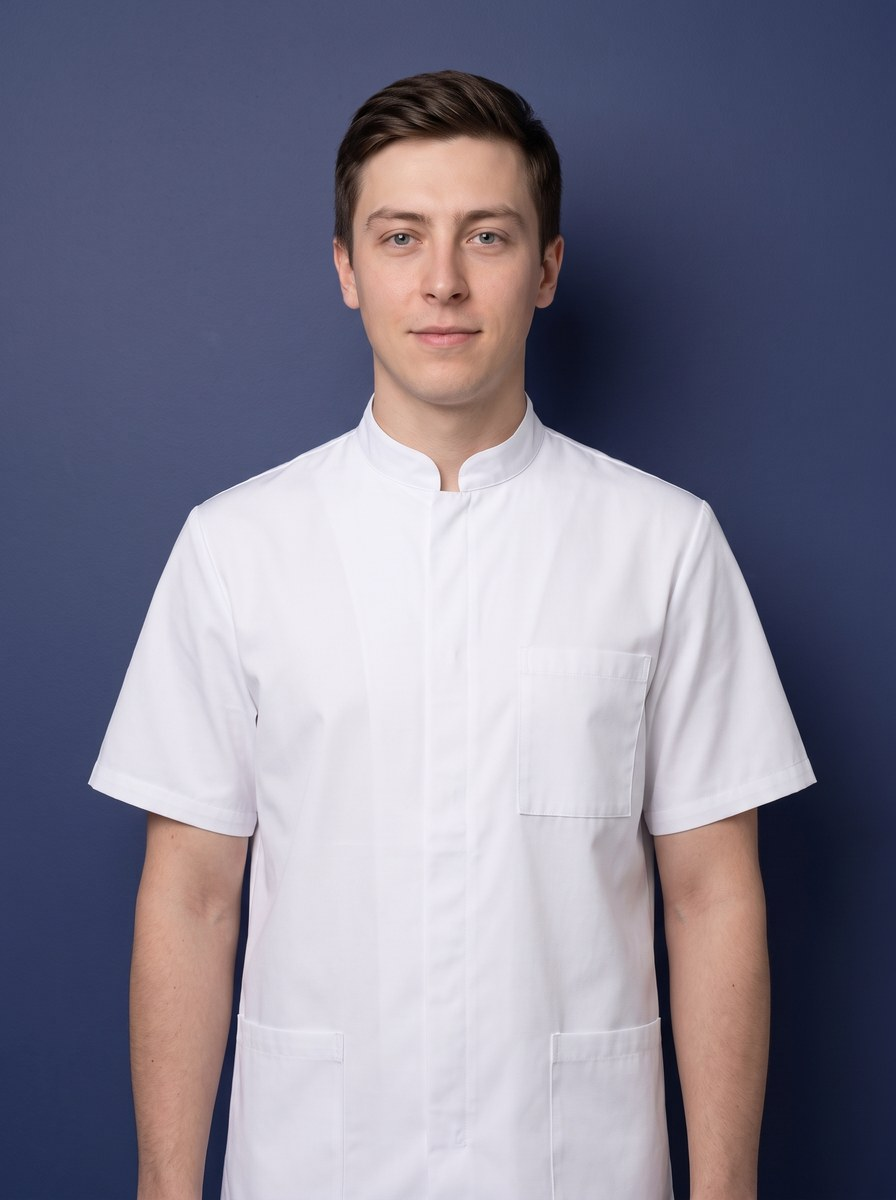
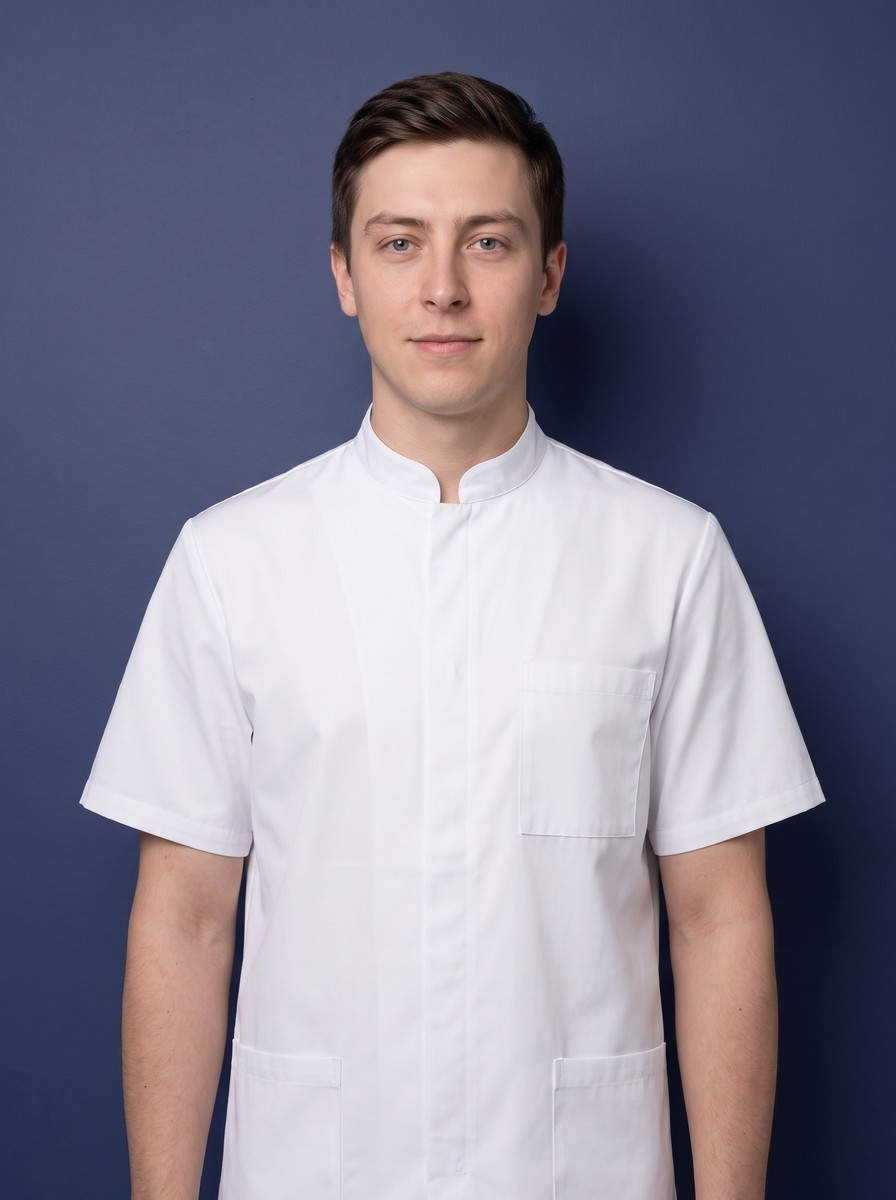
Портреты выровнены по единому кадру, уточнены специализации
Лица теперь одинаково близко: у всех семерых линия глаз на 20% высоты
кадра, лицо занимает одну и ту же долю ширины, центр по вертикальной оси
— эталоном взят кадр Старикова. Кроп считался от замеров лица на каждом
снимке, а не подгонкой на глаз.

Портрет Анны был снят заметно крупнее остальных, и обрезкой его было не
отдалить — кадр пришлось сначала расширить (outpaint дорисовал фон и
фигуру), и только потом кадрировать вместе со всеми.

Стариков и Лев — стоматологи-хирурги, а не терапевты. Полина —
гигиенист, не стоматолог, поэтому её страница, как у ассистентов и
администратора, отдаёт Person вместо Physician и не зовёт «к врачу».

diff --git a/site/konsultatsiya.html b/site/konsultatsiya.html
@@ -32,7 +32,7 @@ try {
 <link rel="preconnect" href="https://fonts.googleapis.com">
 <link rel="preconnect" href="https://fonts.gstatic.com" crossorigin>
 <link href="https://fonts.googleapis.com/css2?family=Unbounded:wght@500;700;900&family=Manrope:wght@400;500;700;800&display=swap" rel="stylesheet">
-<link rel="stylesheet" href="styles.css?v=20260826a">
+<link rel="stylesheet" href="styles.css?v=20260826b">
 <script type="application/ld+json">{"@context": "https://schema.org", "@type": "Service", "name": "Приём и консультация стоматолога", "serviceType": "Приём и консультация стоматолога", "provider": {"@type": "Dentist", "name": "Честная стоматология", "address": {"@type": "PostalAddress", "streetAddress": "ул. Танкистов, 68", "addressLocality": "Пермь", "postalCode": "614095", "addressCountry": "RU"}, "telephone": "+79991152419"}, "areaServed": "Пермь", "offers": {"@type": "Offer", "price": "600", "priceCurrency": "RUB"}}</script>
 <script type="application/ld+json">{"@context": "https://schema.org", "@type": "FAQPage", "mainEntity": [{"@type": "Question", "name": "Нужно ли готовиться к консультации?", "acceptedAnswer": {"@type": "Answer", "text": "Нет, особой подготовки не требуется. Если есть снимки из других клиник — возьмите их с собой."}}, {"@type": "Question", "name": "Обязательно ли лечиться после консультации именно у вас?", "acceptedAnswer": {"@type": "Answer", "text": "Нет. План лечения и смета остаются у вас — решение вы принимаете без давления."}}, {"@type": "Question", "name": "Сколько действует смета?", "acceptedAnswer": {"@type": "Answer", "text": "Смета фиксируется в договоре до начала лечения и не меняется в процессе."}}]}</script>
 </head>
@@ -172,11 +172,11 @@ try {
 </div>
 
 <script>window.SERVICE_ID = "konsultatsiya";</script>
-<script src="db.js?v=20260826a"></script>
-<script src="md.js?v=20260826a"></script>
-<script src="services-data.js?v=20260826a"></script>
-<script src="ux.js?v=20260826a"></script>
-<script src="service.js?v=20260826a"></script>
-<script src="a11y.js?v=20260826a"></script>
+<script src="db.js?v=20260826b"></script>
+<script src="md.js?v=20260826b"></script>
+<script src="services-data.js?v=20260826b"></script>
+<script src="ux.js?v=20260826b"></script>
+<script src="service.js?v=20260826b"></script>
+<script src="a11y.js?v=20260826b"></script>
 </body>
 </html>

diff --git a/site/profgigiena.html b/site/profgigiena.html
@@ -32,7 +32,7 @@ try {
 <link rel="preconnect" href="https://fonts.googleapis.com">
 <link rel="preconnect" href="https://fonts.gstatic.com" crossorigin>
 <link href="https://fonts.googleapis.com/css2?family=Unbounded:wght@500;700;900&family=Manrope:wght@400;500;700;800&display=swap" rel="stylesheet">
-<link rel="stylesheet" href="styles.css?v=20260826a">
+<link rel="stylesheet" href="styles.css?v=20260826b">
 <script type="application/ld+json">{"@context": "https://schema.org", "@type": "Service", "name": "Профессиональная гигиена полости рта", "serviceType": "Профессиональная гигиена полости рта", "provider": {"@type": "Dentist", "name": "Честная стоматология", "address": {"@type": "PostalAddress", "streetAddress": "ул. Танкистов, 68", "addressLocality": "Пермь", "postalCode": "614095", "addressCountry": "RU"}, "telephone": "+79991152419"}, "areaServed": "Пермь", "offers": {"@type": "Offer", "price": "4900", "priceCurrency": "RUB"}}</script>
 <script type="application/ld+json">{"@context": "https://schema.org", "@type": "FAQPage", "mainEntity": [{"@type": "Question", "name": "Как часто нужно делать профгигиену?", "acceptedAnswer": {"@type": "Answer", "text": "Раз в полгода — регулярная гигиена в разы снижает риск кариеса."}}, {"@type": "Question", "name": "Есть ли акция?", "acceptedAnswer": {"@type": "Answer", "text": "Да, до 31.08.2026 чистка 1+1 для двоих — всего 6 990 ₽."}}, {"@type": "Question", "name": "Отбеливает ли чистка зубы?", "acceptedAnswer": {"@type": "Answer", "text": "Air-Flow возвращает естественный цвет эмали, убирая налёт от кофе, чая и курения."}}]}</script>
 </head>
@@ -172,11 +172,11 @@ try {
 </div>
 
 <script>window.SERVICE_ID = "profgigiena";</script>
-<script src="db.js?v=20260826a"></script>
-<script src="md.js?v=20260826a"></script>
-<script src="services-data.js?v=20260826a"></script>
-<script src="ux.js?v=20260826a"></script>
-<script src="service.js?v=20260826a"></script>
-<script src="a11y.js?v=20260826a"></script>
+<script src="db.js?v=20260826b"></script>
+<script src="md.js?v=20260826b"></script>
+<script src="services-data.js?v=20260826b"></script>
+<script src="ux.js?v=20260826b"></script>
+<script src="service.js?v=20260826b"></script>
+<script src="a11y.js?v=20260826b"></script>
 </body>
 </html>

diff --git a/site/protezirovanie.html b/site/protezirovanie.html
@@ -32,7 +32,7 @@ try {
 <link rel="preconnect" href="https://fonts.googleapis.com">
 <link rel="preconnect" href="https://fonts.gstatic.com" crossorigin>
 <link href="https://fonts.googleapis.com/css2?family=Unbounded:wght@500;700;900&family=Manrope:wght@400;500;700;800&display=swap" rel="stylesheet">
-<link rel="stylesheet" href="styles.css?v=20260826a">
+<link rel="stylesheet" href="styles.css?v=20260826b">
 <script type="application/ld+json">{"@context": "https://schema.org", "@type": "Service", "name": "Протезирование зубов", "serviceType": "Протезирование зубов", "provider": {"@type": "Dentist", "name": "Честная стоматология", "address": {"@type": "PostalAddress", "streetAddress": "ул. Танкистов, 68", "addressLocality": "Пермь", "postalCode": "614095", "addressCountry": "RU"}, "telephone": "+79991152419"}, "areaServed": "Пермь", "offers": {"@type": "Offer", "price": "10440", "priceCurrency": "RUB"}}</script>
 <script type="application/ld+json">{"@context": "https://schema.org", "@type": "FAQPage", "mainEntity": [{"@type": "Question", "name": "Что значит «под ключ»?", "acceptedAnswer": {"@type": "Answer", "text": "В цену включены все этапы: подготовка, слепки, изготовление, примерка и фиксация."}}, {"@type": "Question", "name": "Какая коронка лучше?", "acceptedAnswer": {"@type": "Answer", "text": "Цельнолитая — бюджетный вариант для жевательных зубов, циркониевая — эстетичнее, по акции 24 500 ₽."}}, {"@type": "Question", "name": "Больно ли ставить коронку?", "acceptedAnswer": {"@type": "Answer", "text": "Все этапы проходят с анестезией."}}]}</script>
 </head>
@@ -172,11 +172,11 @@ try {
 </div>
 
 <script>window.SERVICE_ID = "protezirovanie";</script>
-<script src="db.js?v=20260826a"></script>
-<script src="md.js?v=20260826a"></script>
-<script src="services-data.js?v=20260826a"></script>
-<script src="ux.js?v=20260826a"></script>
-<script src="service.js?v=20260826a"></script>
-<script src="a11y.js?v=20260826a"></script>
+<script src="db.js?v=20260826b"></script>
+<script src="md.js?v=20260826b"></script>
+<script src="services-data.js?v=20260826b"></script>
+<script src="ux.js?v=20260826b"></script>
+<script src="service.js?v=20260826b"></script>
+<script src="a11y.js?v=20260826b"></script>
 </body>
 </html>

diff --git a/site/lechenie-kariesa.html b/site/lechenie-kariesa.html
@@ -32,7 +32,7 @@ try {
 <link rel="preconnect" href="https://fonts.googleapis.com">
 <link rel="preconnect" href="https://fonts.gstatic.com" crossorigin>
 <link href="https://fonts.googleapis.com/css2?family=Unbounded:wght@500;700;900&family=Manrope:wght@400;500;700;800&display=swap" rel="stylesheet">
-<link rel="stylesheet" href="styles.css?v=20260826a">
+<link rel="stylesheet" href="styles.css?v=20260826b">
 <script type="application/ld+json">{"@context": "https://schema.org", "@type": "Service", "name": "Лечение кариеса", "serviceType": "Лечение кариеса", "provider": {"@type": "Dentist", "name": "Честная стоматология", "address": {"@type": "PostalAddress", "streetAddress": "ул. Танкистов, 68", "addressLocality": "Пермь", "postalCode": "614095", "addressCountry": "RU"}, "telephone": "+79991152419"}, "areaServed": "Пермь", "offers": {"@type": "Offer", "price": "4000", "priceCurrency": "RUB"}}</script>
 <script type="application/ld+json">{"@context": "https://schema.org", "@type": "FAQPage", "mainEntity": [{"@type": "Question", "name": "Больно ли лечить кариес?", "acceptedAnswer": {"@type": "Answer", "text": "Нет, используем современную анестезию — пациенты не чувствуют даже укол."}}, {"@type": "Question", "name": "Действует ли скидка?", "acceptedAnswer": {"@type": "Answer", "text": "Да, до 31.08.2026 — скидка 15% на лечение кариеса при прохождении профгигиены."}}, {"@type": "Question", "name": "Что будет, если кариес не лечить?", "acceptedAnswer": {"@type": "Answer", "text": "Кариес перейдёт в пульпит — лечение будет дольше и дороже."}}]}</script>
 </head>
@@ -172,11 +172,11 @@ try {
 </div>
 
 <script>window.SERVICE_ID = "lechenie-kariesa";</script>
-<script src="db.js?v=20260826a"></script>
-<script src="md.js?v=20260826a"></script>
-<script src="services-data.js?v=20260826a"></script>
-<script src="ux.js?v=20260826a"></script>
-<script src="service.js?v=20260826a"></script>
-<script src="a11y.js?v=20260826a"></script>
+<script src="db.js?v=20260826b"></script>
+<script src="md.js?v=20260826b"></script>
+<script src="services-data.js?v=20260826b"></script>
+<script src="ux.js?v=20260826b"></script>
+<script src="service.js?v=20260826b"></script>
+<script src="a11y.js?v=20260826b"></script>
 </body>
 </html>

diff --git a/site/restavratsiya.html b/site/restavratsiya.html
@@ -32,7 +32,7 @@ try {
 <link rel="preconnect" href="https://fonts.googleapis.com">
 <link rel="preconnect" href="https://fonts.gstatic.com" crossorigin>
 <link href="https://fonts.googleapis.com/css2?family=Unbounded:wght@500;700;900&family=Manrope:wght@400;500;700;800&display=swap" rel="stylesheet">
-<link rel="stylesheet" href="styles.css?v=20260826a">
+<link rel="stylesheet" href="styles.css?v=20260826b">
 <script type="application/ld+json">{"@context": "https://schema.org", "@type": "Service", "name": "Эстетическая реставрация зубов", "serviceType": "Эстетическая реставрация зубов", "provider": {"@type": "Dentist", "name": "Честная стоматология", "address": {"@type": "PostalAddress", "streetAddress": "ул. Танкистов, 68", "addressLocality": "Пермь", "postalCode": "614095", "addressCountry": "RU"}, "telephone": "+79991152419"}, "areaServed": "Пермь", "offers": {"@type": "Offer", "price": "3500", "priceCurrency": "RUB"}}</script>
 <script type="application/ld+json">{"@context": "https://schema.org", "@type": "FAQPage", "mainEntity": [{"@type": "Question", "name": "Чем реставрация отличается от коронки?", "acceptedAnswer": {"@type": "Answer", "text": "Реставрация делается композитом за один визит и не требует обточки зуба."}}, {"@type": "Question", "name": "Сколько держится реставрация?", "acceptedAnswer": {"@type": "Answer", "text": "При правильном уходе — 5–10 лет."}}, {"@type": "Question", "name": "Можно ли закрыть щель между передними зубами?", "acceptedAnswer": {"@type": "Answer", "text": "Да, это решается за один визит."}}]}</script>
 </head>
@@ -172,11 +172,11 @@ try {
 </div>
 
 <script>window.SERVICE_ID = "restavratsiya";</script>
-<script src="db.js?v=20260826a"></script>
-<script src="md.js?v=20260826a"></script>
-<script src="services-data.js?v=20260826a"></script>
-<script src="ux.js?v=20260826a"></script>
-<script src="service.js?v=20260826a"></script>
-<script src="a11y.js?v=20260826a"></script>
+<script src="db.js?v=20260826b"></script>
+<script src="md.js?v=20260826b"></script>
+<script src="services-data.js?v=20260826b"></script>
+<script src="ux.js?v=20260826b"></script>
+<script src="service.js?v=20260826b"></script>
+<script src="a11y.js?v=20260826b"></script>
 </body>
 </html>

diff --git a/site/udalenie-zubov.html b/site/udalenie-zubov.html
@@ -32,7 +32,7 @@ try {
 <link rel="preconnect" href="https://fonts.googleapis.com">
 <link rel="preconnect" href="https://fonts.gstatic.com" crossorigin>
 <link href="https://fonts.googleapis.com/css2?family=Unbounded:wght@500;700;900&family=Manrope:wght@400;500;700;800&display=swap" rel="stylesheet">
-<link rel="stylesheet" href="styles.css?v=20260826a">
+<link rel="stylesheet" href="styles.css?v=20260826b">
 <script type="application/ld+json">{"@context": "https://schema.org", "@type": "Service", "name": "Удаление зубов", "serviceType": "Удаление зубов", "provider": {"@type": "Dentist", "name": "Честная стоматология", "address": {"@type": "PostalAddress", "streetAddress": "ул. Танкистов, 68", "addressLocality": "Пермь", "postalCode": "614095", "addressCountry": "RU"}, "telephone": "+79991152419"}, "areaServed": "Пермь", "offers": {"@type": "Offer", "price": "2500", "priceCurrency": "RUB"}}</script>
 <script type="application/ld+json">{"@context": "https://schema.org", "@type": "FAQPage", "mainEntity": [{"@type": "Question", "name": "Вы сразу предложите удалить зуб?", "acceptedAnswer": {"@type": "Answer", "text": "Нет, наш принцип — сохранять зубы, которые можно вылечить."}}, {"@type": "Question", "name": "Принимаете ли вы с острой болью?", "acceptedAnswer": {"@type": "Answer", "text": "Да, есть неотложка для взрослых — постараемся принять в день обращения."}}, {"@type": "Question", "name": "Что делать после удаления?", "acceptedAnswer": {"@type": "Answer", "text": "Врач даст подробные рекомендации; при вопросах — звоните."}}]}</script>
 </head>
@@ -172,11 +172,11 @@ try {
 </div>
 
 <script>window.SERVICE_ID = "udalenie-zubov";</script>
-<script src="db.js?v=20260826a"></script>
-<script src="md.js?v=20260826a"></script>
-<script src="services-data.js?v=20260826a"></script>
-<script src="ux.js?v=20260826a"></script>
-<script src="service.js?v=20260826a"></script>
-<script src="a11y.js?v=20260826a"></script>
+<script src="db.js?v=20260826b"></script>
+<script src="md.js?v=20260826b"></script>
+<script src="services-data.js?v=20260826b"></script>
+<script src="ux.js?v=20260826b"></script>
+<script src="service.js?v=20260826b"></script>
+<script src="a11y.js?v=20260826b"></script>
 </body>
 </html>

diff --git a/site/index.html b/site/index.html
@@ -80,10 +80,10 @@ try {
 <link rel="preconnect" href="https://fonts.googleapis.com">
 <link rel="preconnect" href="https://fonts.gstatic.com" crossorigin>
 <link href="https://fonts.googleapis.com/css2?family=Unbounded:wght@500;700;900&family=Manrope:wght@400;500;700;800&family=Cairo:wght@400;600;800&display=swap" rel="stylesheet">
-<link rel="stylesheet" href="styles.css?v=20260826a">
-<link rel="stylesheet" href="effects.css?v=20260826a">
-<link rel="stylesheet" href="cards-fx.css?v=20260826a">
-<link rel="stylesheet" href="polish.css?v=20260826a">
+<link rel="stylesheet" href="styles.css?v=20260826b">
+<link rel="stylesheet" href="effects.css?v=20260826b">
+<link rel="stylesheet" href="cards-fx.css?v=20260826b">
+<link rel="stylesheet" href="polish.css?v=20260826b">
 </head>
 <body data-theme="deep">
 <a class="skip-link" href="#care">Перейти к содержанию</a>
@@ -658,20 +658,20 @@ try {
   </div>
 </div>
 
-<script src="i18n.js?v=20260826a"></script>
-<script src="db.js?v=20260826a"></script>
-<script src="auth.js?v=20260826a"></script>
-<script src="md.js?v=20260826a"></script>
-<script src="ux.js?v=20260826a"></script>
-<script src="app.js?v=20260826a"></script>
-<script src="water.js?v=20260826a" defer></script>
-<script src="effects.js?v=20260826a" defer></script>
-<script src="teeth-map.js?v=20260826a" defer></script>
-<script src="hero-seq.js?v=20260826a" defer></script>
-<script src="tour.js?v=20260826a" defer></script>
-<script src="cards-fx.js?v=20260826a" defer></script>
-<script src="motion-fx.js?v=20260826a" defer></script>
-<script src="polish.js?v=20260826a" defer></script>
-<script src="a11y.js?v=20260826a"></script>
+<script src="i18n.js?v=20260826b"></script>
+<script src="db.js?v=20260826b"></script>
+<script src="auth.js?v=20260826b"></script>
+<script src="md.js?v=20260826b"></script>
+<script src="ux.js?v=20260826b"></script>
+<script src="app.js?v=20260826b"></script>
+<script src="water.js?v=20260826b" defer></script>
+<script src="effects.js?v=20260826b" defer></script>
+<script src="teeth-map.js?v=20260826b" defer></script>
+<script src="hero-seq.js?v=20260826b" defer></script>
+<script src="tour.js?v=20260826b" defer></script>
+<script src="cards-fx.js?v=20260826b" defer></script>
+<script src="motion-fx.js?v=20260826b" defer></script>
+<script src="polish.js?v=20260826b" defer></script>
+<script src="a11y.js?v=20260826b"></script>
 </body>
 </html>

diff --git a/site/db.js b/site/db.js
@@ -35,8 +35,8 @@ const ChestomDB = (() => {
         id: "starikov",
         name: "Стариков",
         fullName: "Стариков",
-        role: "Врач-стоматолог",
-        desc: "Терапевтическое лечение: кариес, пульпит, реставрация. Подробно объясняет план лечения до начала работы.",
+        role: "Врач стоматолог-хирург",
+        desc: "Хирургическое лечение: удаление зубов, в том числе сложное, и подготовка к протезированию. Подробно объясняет ход вмешательства до начала работы.",
         photo: "team/starikov.jpg",
         hue: 205
       },
@@ -44,8 +44,8 @@ const ChestomDB = (() => {
         id: "lev",
         name: "Лев",
         fullName: "Лев",
-        role: "Врач-стоматолог",
-        desc: "Лечение и реставрация зубов. Работает спокойно и без спешки — важно, если визит к стоматологу даётся тяжело.",
+        role: "Врач стоматолог-хирург",
+        desc: "Удаление зубов и хирургическая подготовка полости рта. Работает спокойно и без спешки — важно, если визит к стоматологу даётся тяжело.",
         photo: "team/lev.jpg",
         hue: 225
       },
@@ -53,7 +53,7 @@ const ChestomDB = (() => {
         id: "polina",
         name: "Полина",
         fullName: "Полина",
-        role: "Стоматолог-гигиенист",
+        role: "Гигиенист",
         desc: "Профессиональная гигиена, снятие налёта и зубного камня, подбор домашнего ухода. Покажет, как чистить зубы именно вам.",
         photo: "team/polina.jpg",
         hue: 170

diff --git a/site/admin.html b/site/admin.html
@@ -20,8 +20,8 @@ try { if (!localStorage.getItem("chestom_session")) location.replace("login.html
 <link rel="preconnect" href="https://fonts.googleapis.com">
 <link rel="preconnect" href="https://fonts.gstatic.com" crossorigin>
 <link href="https://fonts.googleapis.com/css2?family=Unbounded:wght@500;700&family=Manrope:wght@400;500;700;800&display=swap" rel="stylesheet">
-<link rel="stylesheet" href="styles.css?v=20260826a">
-<link rel="stylesheet" href="admin.css?v=20260826a">
+<link rel="stylesheet" href="styles.css?v=20260826b">
+<link rel="stylesheet" href="admin.css?v=20260826b">
 </head>
 <body class="adm-body">
 
@@ -302,10 +302,10 @@ try { if (!localStorage.getItem("chestom_session")) location.replace("login.html
   </div>
 </div>
 
-<script src="db.js?v=20260826a"></script>
-<script src="auth.js?v=20260826a"></script>
-<script src="md.js?v=20260826a"></script>
-<script src="admin.js?v=20260826a"></script>
-<script src="a11y.js?v=20260826a"></script>
+<script src="db.js?v=20260826b"></script>
+<script src="auth.js?v=20260826b"></script>
+<script src="md.js?v=20260826b"></script>
+<script src="admin.js?v=20260826b"></script>
+<script src="a11y.js?v=20260826b"></script>
 </body>
 </html>

diff --git a/site/_service_template.html b/site/_service_template.html
@@ -27,7 +27,7 @@ try {
 <link rel="preconnect" href="https://fonts.googleapis.com">
 <link rel="preconnect" href="https://fonts.gstatic.com" crossorigin>
 <link href="https://fonts.googleapis.com/css2?family=Unbounded:wght@500;700;900&family=Manrope:wght@400;500;700;800&display=swap" rel="stylesheet">
-<link rel="stylesheet" href="styles.css?v=20260826a">
+<link rel="stylesheet" href="styles.css?v=20260826b">
 <script type="application/ld+json">{{LD_SERVICE}}</script>
 <script type="application/ld+json">{{LD_FAQ}}</script>
 </head>
@@ -167,11 +167,11 @@ try {
 </div>
 
 <script>window.SERVICE_ID = "{{SLUG}}";</script>
-<script src="db.js?v=20260826a"></script>
-<script src="md.js?v=20260826a"></script>
-<script src="services-data.js?v=20260826a"></script>
-<script src="ux.js?v=20260826a"></script>
-<script src="service.js?v=20260826a"></script>
-<script src="a11y.js?v=20260826a"></script>
+<script src="db.js?v=20260826b"></script>
+<script src="md.js?v=20260826b"></script>
+<script src="services-data.js?v=20260826b"></script>
+<script src="ux.js?v=20260826b"></script>
+<script src="service.js?v=20260826b"></script>
+<script src="a11y.js?v=20260826b"></script>
 </body>
 </html>

diff --git a/site/404.html b/site/404.html
@@ -19,7 +19,7 @@ try {
 <link rel="preconnect" href="https://fonts.googleapis.com">
 <link rel="preconnect" href="https://fonts.gstatic.com" crossorigin>
 <link href="https://fonts.googleapis.com/css2?family=Unbounded:wght@700&family=Manrope:wght@400;700&display=swap" rel="stylesheet">
-<link rel="stylesheet" href="styles.css?v=20260826a">
+<link rel="stylesheet" href="styles.css?v=20260826b">
 <style>
   .nf { min-height: 100svh; display: flex; flex-direction: column; align-items: center; justify-content: center; text-align: center; padding: 24px; gap: 18px; }
   .nf__tooth { width: 120px; opacity: 0.85; filter: drop-shadow(0 16px 50px rgba(122, 108, 240,0.35)); animation: nfFloat 4s ease-in-out infinite alternate; }
@@ -40,6 +40,6 @@ try {
   <a class="btn btn--primary btn--lg" href="index.html">На главную</a>
   <a class="btn btn--ghost" href="tel:+79991152419">Позвонить: +7 999 115-24-19</a>
 </main>
-<script src="a11y.js?v=20260826a"></script>
+<script src="a11y.js?v=20260826b"></script>
 </body>
 </html>

diff --git a/site/doctor.js b/site/doctor.js
@@ -24,9 +24,9 @@
   };
 
   /* ── профиль ── */
-  /* В команде есть не только врачи: ассистенты и администратор. Для них
-     нельзя ни размечать Physician, ни звать «записаться к врачу». */
-  const isDoctor = !/ассистент|администратор/i.test(doc.role || "");
+  /* В команде есть не только врачи: гигиенист, ассистенты и администратор.
+     Для них нельзя ни размечать Physician, ни звать «записаться к врачу». */
+  const isDoctor = !/ассистент|администратор|гигиенист/i.test(doc.role || "");
   document.title = `${doc.name} — Честная стоматология, Пермь`;
   /* Schema.org: Physician для врачей, Person для остальных сотрудников */
   const ld = document.createElement("script");
